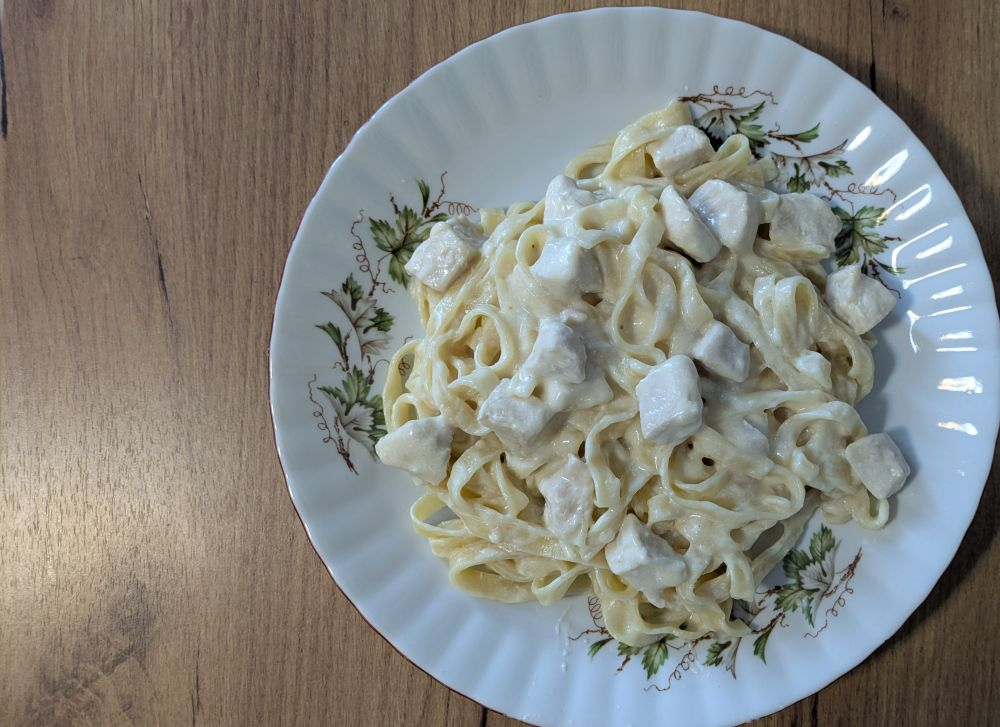
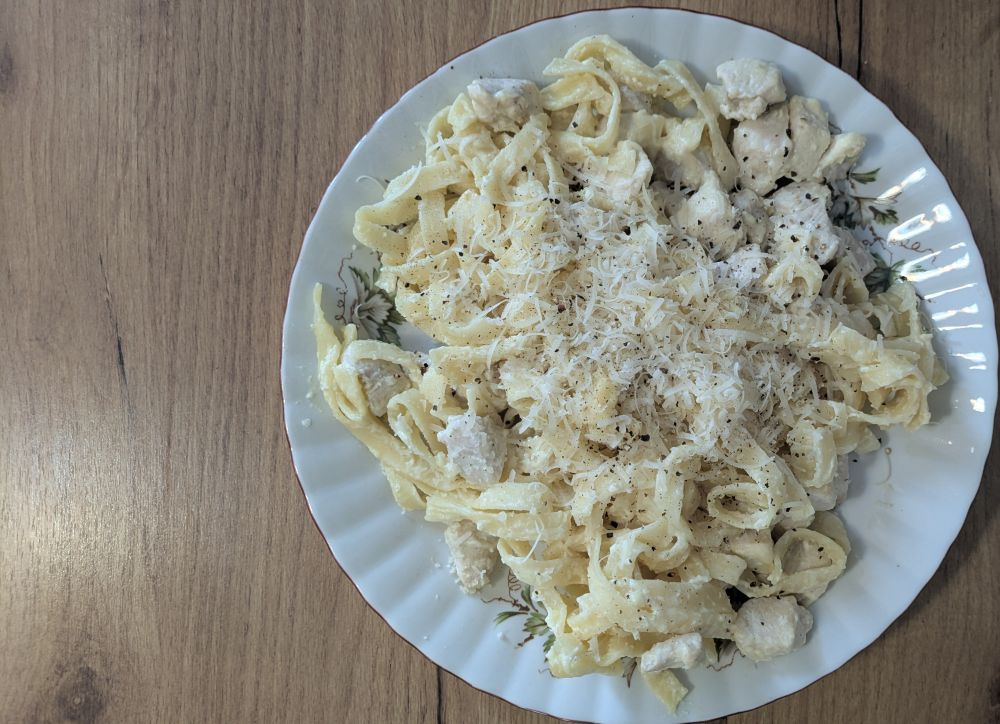
update-ri-fix-user-section

diff --git a/src/components/user-page/UserPage.tsx b/src/components/user-page/UserPage.tsx
@@ -284,19 +284,22 @@ export default function UserPage({
   };
 
   const renderDummyRecords = (meal: DayMealType) => {
-    return DUMMY_RECORDS[meal].map((item, index) => (
-      <div key={`dummy-${index}`} className="meal-ing dummy-record">
-        <div className="meal-ing-grid">
-          <IngredientIcon
-            ingType={ingredientLookup[item[0]].type}
-            subType={ingredientLookup[item[0]].subType}
-            color={ingredientLookup[item[0]].color}
-          />
-          <span className="dummy-grams">{item[1]}g</span>
-          <span className="dummy-name">{item[0]}</span>
+    return DUMMY_RECORDS[meal].map((item, index) => {
+      if (!ingredientLookup[item[0]]) return <></>;
+      return (
+        <div key={`dummy-${index}`} className="meal-ing dummy-record">
+          <div className="meal-ing-grid">
+            <IngredientIcon
+              ingType={ingredientLookup[item[0]].type}
+              subType={ingredientLookup[item[0]].subType}
+              color={ingredientLookup[item[0]].color}
+            />
+            <span className="dummy-grams">{item[1]}g</span>
+            <span className="dummy-name">{item[0]}</span>
+          </div>
         </div>
-      </div>
-    ));
+      );
+    });
   };
 
   const renderIngGroup = (group: DayIngredientPair[], meal: DayMealType) => {

diff --git a/src/ingredients/ingVegetable.ts b/src/ingredients/ingVegetable.ts
@@ -129,6 +129,7 @@ export const iVEG: Record<IngId, IngredientItem> = {
     kcalPer100g: 18,
     unitWeights: {
       szt: 170,
+      plas: 15,
     },
     nutrientsPer100g: [0.2, 3.9, 0.9],
     price: 8,
@@ -141,6 +142,9 @@ export const iVEG: Record<IngId, IngredientItem> = {
     subType: "tom",
     color: "#E53935",
     kcalPer100g: 18,
+    unitWeights: {
+      szt: 15,
+    },
     nutrientsPer100g: [0.2, 3.9, 0.9],
     price: 29.9,
   },

diff --git a/src/ingredients/ingMeat.ts b/src/ingredients/ingMeat.ts
@@ -643,6 +643,9 @@ export const iMET: Record<IngId, IngredientItem> = {
     subType: "ham",
     color: "#D98C6B",
     kcalPer100g: 450,
+    unitWeights: {
+      plas: 15,
+    },
     nutrientsPer100g: [45, 0, 12],
   },
 
@@ -652,6 +655,9 @@ export const iMET: Record<IngId, IngredientItem> = {
     subType: "ham",
     color: "#E7A07A",
     kcalPer100g: 400,
+    unitWeights: {
+      plas: 15,
+    },
     nutrientsPer100g: [38, 0, 14],
   },
 

diff --git a/src/data/salad/bigos.ts b/src/data/salad/bigos.ts
@@ -11,8 +11,11 @@ import type { Recipe } from "../../types";
 const bigos: Recipe = {
   name: "Bigos",
   type: "salad",
-  cookingMethods: [["fried", 8], ["boiled", 480]],
-  images: [""],
+  cookingMethods: [
+    ["fried", 8],
+    ["boiled", 480],
+  ],
+  images: ["bigos.jpg"],
   time: 480,
   portions: 15,
   taste: null,

diff --git a/src/data/soup/barszcz-bialy.ts b/src/data/soup/barszcz-bialy.ts
@@ -1,0 +1,16 @@
+import type { Recipe } from "../../types";
+
+const barszczBialy: Recipe = {
+  name: "Barszcz Biały",
+  type: "soup",
+  cookingMethods: [],
+  images: [""],
+  time: 0,
+  portions: 0,
+  taste: null,
+  difficulty: null,
+  ingredients: [],
+  steps: [],
+};
+
+export default barszczBialy;

diff --git a/src/data/soup/kalafiorowa.ts b/src/data/soup/kalafiorowa.ts
@@ -1,0 +1,16 @@
+import type { Recipe } from "../../types";
+
+const kalafiorowa: Recipe = {
+  name: "Kalafiorowa",
+  type: "soup",
+  cookingMethods: [],
+  images: [""],
+  time: 0,
+  portions: 0,
+  taste: null,
+  difficulty: null,
+  ingredients: [],
+  steps: [],
+};
+
+export default kalafiorowa;

diff --git a/src/data/dinner/kurczak-z-fettuccine.ts b/src/data/dinner/kurczak-z-fettuccine.ts
@@ -14,7 +14,11 @@ const kurczakZFettuccine: Recipe = {
     ["fried", 8],
     ["stewed", 2],
   ],
-  images: ["kurczak-z-fettuccine.jpg"],
+  images: [
+    "kurczak-z-fettuccine.jpg",
+    "kurczak-z-fettuccine-2.jpg",
+    "kurczak-z-fettuccine-3.jpg",
+  ],
   time: 20,
   portions: 3,
   taste: 2,

diff --git a/src/data/soup/szczewiowa.ts b/src/data/soup/szczewiowa.ts
@@ -1,0 +1,16 @@
+import type { Recipe } from "../../types";
+
+const szczawiowa: Recipe = {
+  name: "Szczawiowa",
+  type: "soup",
+  cookingMethods: [],
+  images: [""],
+  time: 0,
+  portions: 0,
+  taste: null,
+  difficulty: null,
+  ingredients: [],
+  steps: [],
+};
+
+export default szczawiowa;

diff --git a/src/data/soup/krem-z-dyni.ts b/src/data/soup/krem-z-dyni.ts
@@ -1,0 +1,16 @@
+import type { Recipe } from "../../types";
+
+const kremZDyni: Recipe = {
+  name: "Krem z Dyni",
+  type: "soup",
+  cookingMethods: [],
+  images: [""],
+  time: 0,
+  portions: 0,
+  taste: null,
+  difficulty: null,
+  ingredients: [],
+  steps: [],
+};
+
+export default kremZDyni;

diff --git a/src/data/soup/chrzanowa.ts b/src/data/soup/chrzanowa.ts
@@ -1,0 +1,16 @@
+import type { Recipe } from "../../types";
+
+const chrzanowa: Recipe = {
+  name: "Chrzanowa",
+  type: "soup",
+  cookingMethods: [],
+  images: [""],
+  time: 0,
+  portions: 0,
+  taste: null,
+  difficulty: null,
+  ingredients: [],
+  steps: [],
+};
+
+export default chrzanowa;

diff --git a/src/data/soup/czosnkowa.ts b/src/data/soup/czosnkowa.ts
@@ -1,0 +1,16 @@
+import type { Recipe } from "../../types";
+
+const czosnkowa: Recipe = {
+  name: "Czosnkowa",
+  type: "soup",
+  cookingMethods: [],
+  images: [""],
+  time: 0,
+  portions: 0,
+  taste: null,
+  difficulty: null,
+  ingredients: [],
+  steps: [],
+};
+
+export default czosnkowa;

diff --git a/src/data/soup/koperkowa.ts b/src/data/soup/koperkowa.ts
@@ -1,0 +1,16 @@
+import type { Recipe } from "../../types";
+
+const koperkowa: Recipe = {
+  name: "Koperkowa",
+  type: "soup",
+  cookingMethods: [],
+  images: [""],
+  time: 0,
+  portions: 0,
+  taste: null,
+  difficulty: null,
+  ingredients: [],
+  steps: [],
+};
+
+export default koperkowa;
